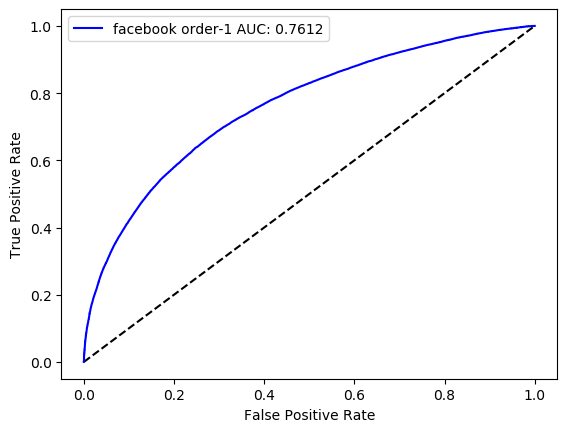
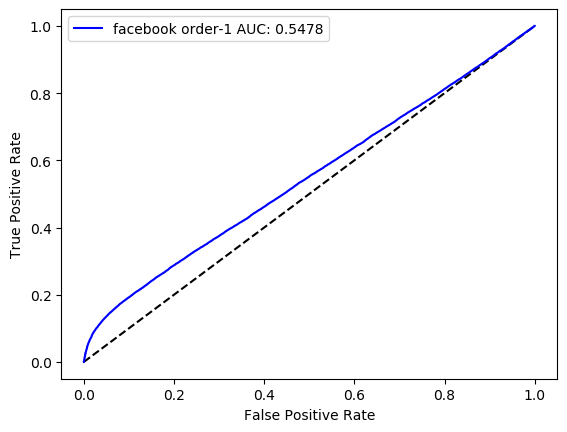
embedings by pytorch give AUC of almost random 0.55 though run 300,000batch

diff --git a/test_evaluate_new.py b/test_evaluate_new.py
@@ -69,7 +69,7 @@ def main(order=1, AUC_file='data/auc/AUC_tensorflow_fb_order=1.png', embed_file=
 
 order=2
 AUC_file= 'data/auc/AUC_pytorch-3-0_fb_order=2.png'
-embed_file= 'data/embedding=tensorflow-3(20,000batches)_fb_remained_order-2.pkl'
+embed_file= 'data/embedding=pytorch(300,000batch)_fb_remained_order-2.pkl'
 G_full_file='data/facebook_combined.pkl'
 G_remained_file='data/facebook_remained.pkl'
 G_removed_file='data/facebook_removed.pkl'
